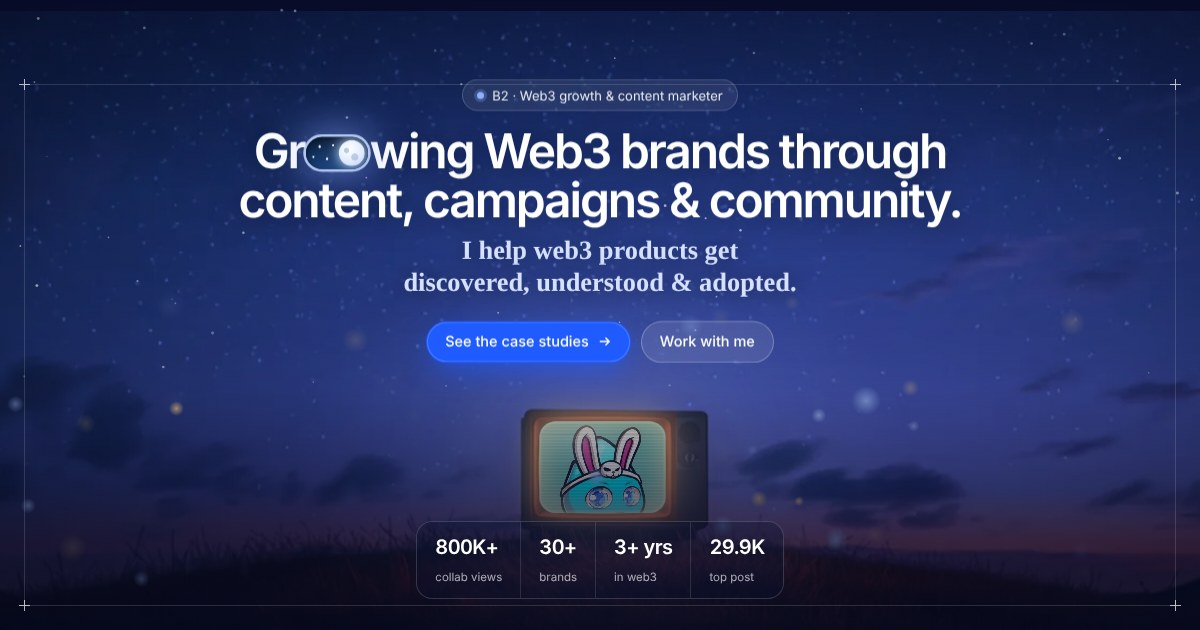
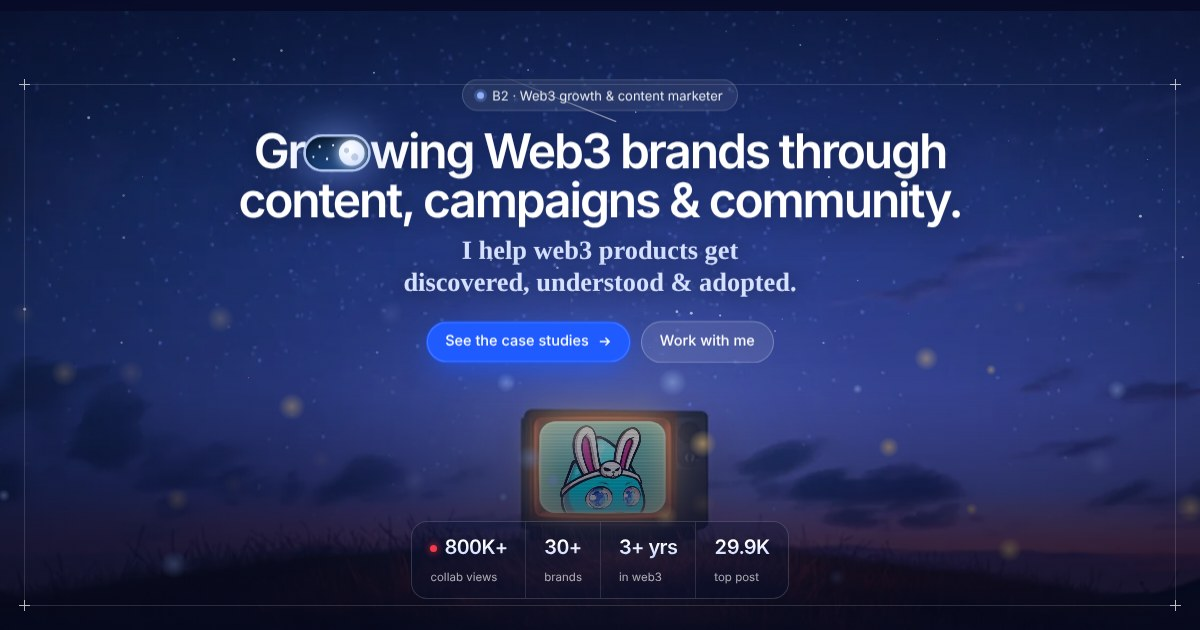
Real post screenshots in viewer, broadcast stat channels on the TV, curved closer, no blank posts

diff --git a/index.html b/index.html
@@ -615,9 +615,58 @@ main.rails{border-left:0;border-right:0;max-width:none;margin:0}
 @media (max-width:820px){.ghead,.grow{grid-template-columns:96px minmax(0,1fr) auto;gap:12px;padding:12px 14px}.ghead{display:none}.gch,.hide-m{display:none}.gt b{font-size:15.5px}.gt small{font-size:12.5px}.go{height:30px;padding:0 10px;font-size:12px}}
 .pc .im .th .fg{object-fit:contain;object-position:50% 50%;width:100%;height:100%}.pc .im .th .bgx{object-fit:cover;width:124%;height:124%}
 .thumbs{display:flex;justify-content:center}.thumbs button{width:calc((100% - 32px)/5);flex:none}
-@media (max-width:900px){.cvis{padding-top:84px}}
+@media (max-width:900px){.cvis{padding-top:94px}}
 @media (max-width:600px){.sv{min-height:0;padding:20px}.sv h4{padding-top:18px;margin-top:0}.cap h4{margin-top:18px}}
 .embed .tw{display:block;position:absolute;left:0;top:0;width:100%;opacity:0;pointer-events:none}.embed.ready .tw{position:relative;opacity:1;pointer-events:auto}
+
+/* modal shows the actual screenshot */
+.embed .fallback{max-height:min(62vh,640px);overflow:auto;background:#000;border:1px solid var(--line);border-radius:14px;overscroll-behavior:contain}
+.embed .fallback img{width:100%;height:auto;display:block}
+.embed .tw{display:none!important}
+/* text-only post cards */
+.th.tx{display:flex;flex-direction:column;justify-content:center;align-items:flex-start;gap:8px;padding:8% 9%;background:radial-gradient(90% 90% at 85% 0%,rgba(74,123,255,.55),transparent 60%),linear-gradient(150deg,#14205e,#070b26)}
+.th.tx::before{display:none}
+.pc-h{display:flex;align-items:center;gap:8px;width:100%;color:#fff}
+.pc-h img{width:30px;height:30px;border-radius:50%;flex:none}
+.pc-h b{display:block;font-size:13px;line-height:1.1}.pc-h small{display:block;font-size:11px;opacity:.6}
+.pc-h svg{width:14px;height:14px;margin-left:auto;opacity:.8}
+.pc-t{color:#fff;font-weight:600;font-size:clamp(15px,1.6vw,20px);line-height:1.2;letter-spacing:-.02em}
+.pc-n{color:rgba(255,255,255,.65);font-size:12.5px;line-height:1.35}
+.pcard{padding:22px;background:linear-gradient(150deg,#14205e,#070b26);display:flex;flex-direction:column;gap:10px}
+.thumbs .th.tx{padding:6px;gap:2px}.thumbs .pc-h,.thumbs .pc-n{display:none}.thumbs .pc-t{font-size:9px}
+.gth.tx .pc-n,.gth.tx .pc-h small{display:none}.gth.tx .pc-t{font-size:11px}
+.pc .im .th.tx .pc-t{font-size:16px}
+
+/* ---- TV stat channels ---- */
+.screen{container-type:size}
+.ch.stat{display:flex;flex-direction:column;align-items:center;justify-content:center;gap:2cqh;background:repeating-conic-gradient(from 0deg at 50% 120%,rgba(255,255,255,.07) 0 6deg,transparent 6deg 12deg),radial-gradient(80% 90% at 50% 40%,#3D74FF,#1238C9 55%,#06123F);color:#fff;overflow:hidden}
+.ch.stat .sn{font:800 40cqh/1 var(--f);letter-spacing:-.06em;background:linear-gradient(180deg,#fff 30%,#BFD0FF);-webkit-background-clip:text;background-clip:text;color:transparent;filter:drop-shadow(0 .6cqh 1.6cqh rgba(0,10,60,.6));margin-top:4cqh}
+.ch.stat small{font:600 8cqh/1 var(--fm);letter-spacing:.14em;color:#D8E3FF}
+.ch.stat .lb{position:absolute;left:5cqw;top:6cqh;display:flex;align-items:center;gap:2cqw;font:700 6.5cqh/1 var(--fm);letter-spacing:.1em;background:#FF3B4E;color:#fff;padding:1.6cqh 2.6cqw;border-radius:1.4cqh}
+.ch.stat .lb i{width:3cqh;height:3cqh;border-radius:50%;background:#fff;animation:rec 1s infinite}
+.ch.stat .sm{position:absolute;left:0;right:0;bottom:0;height:13cqh;background:rgba(3,8,30,.75);display:flex;align-items:center;overflow:hidden;white-space:nowrap}
+.ch.stat .sm span{flex:none;font:600 6.5cqh/1 var(--fm);letter-spacing:.08em;color:#AFC2FF;padding-right:2cqw;animation:sm 6s linear infinite}
+@keyframes sm{to{transform:translateX(-100%)}}
+.hkpi b{background:linear-gradient(180deg,#fff 35%,#AFC2FF);-webkit-background-clip:text;background-clip:text;color:transparent}
+.hkpi div:first-child b::before{content:"";display:inline-block;width:7px;height:7px;border-radius:50%;background:#FF3B4E;box-shadow:0 0 8px #FF3B4E;margin-right:7px;vertical-align:middle;animation:rec 1.6s infinite}
+/* ---- closer: curved horizon that blurs into the page ---- */
+.closer{position:relative;overflow:hidden;isolation:isolate;margin-top:40px;padding:110px 20px 0;text-align:center;background:linear-gradient(180deg,var(--bg) 0%,var(--bg) 44%,color-mix(in srgb,var(--bg) 70%,#5B82FF) 54%,#3557D9 63%,#13216E 72%,#0A1240 80%,#050820 100%)}
+.cl-in{position:relative;z-index:2;max-width:720px;margin:0 auto}
+.cl-in h2{font-size:clamp(34px,5vw,62px);line-height:1.02;letter-spacing:-.045em;margin:18px 0 14px}
+.cl-in p{color:var(--mute);font-size:17px;max-width:46ch;margin:0 auto}
+.cl-in .btns{display:flex;gap:10px;justify-content:center;flex-wrap:wrap;margin-top:26px}
+.horizon{position:relative;height:clamp(220px,28vw,360px);margin:30px -20px 0;pointer-events:none}
+.horizon .glow1{position:absolute;left:50%;top:38%;width:140%;height:260%;transform:translateX(-50%);border-radius:50%;background:radial-gradient(50% 50% at 50% 50%,transparent 62%,rgba(90,140,255,.55) 66%,rgba(31,91,255,.18) 72%,transparent 80%);filter:blur(22px)}
+.horizon .ring{position:absolute;left:50%;top:44%;width:130%;height:250%;transform:translateX(-50%);border-radius:50%;box-shadow:0 -24px 70px -12px rgba(110,160,255,.65),inset 0 40px 90px -30px rgba(90,140,255,.55);background:radial-gradient(60% 40% at 50% 0%,rgba(40,70,200,.45),transparent 70%),#060A26;filter:blur(7px);-webkit-mask:linear-gradient(90deg,transparent,#000 22%,#000 78%,transparent);mask:linear-gradient(90deg,transparent,#000 22%,#000 78%,transparent)}
+.ccards{position:relative;z-index:2;display:grid;grid-template-columns:repeat(3,minmax(0,1fr));gap:12px;max-width:900px;margin:-110px auto 0}
+.cc{display:flex;flex-direction:column;align-items:flex-start;gap:6px;padding:18px 20px;border-radius:16px;border:1px solid rgba(255,255,255,.14);background:rgba(255,255,255,.05);backdrop-filter:blur(14px);-webkit-backdrop-filter:blur(14px);color:#fff;text-decoration:none;text-align:left;font:inherit;cursor:pointer;box-shadow:0 20px 40px -20px rgba(0,0,0,.6),inset 0 1px 0 rgba(255,255,255,.08);transition:transform .3s,border-color .3s,background .3s;position:relative}
+.cc:hover{transform:translateY(-3px);border-color:rgba(143,176,255,.6);background:rgba(255,255,255,.09)}
+.cc span{font:500 10.5px var(--fm);letter-spacing:.12em;text-transform:uppercase;color:rgba(255,255,255,.55)}
+.cc b{font-weight:500;font-size:15.5px;word-break:break-all}
+.cc em{position:absolute;right:14px;top:16px;font:500 10px var(--fm);font-style:normal;color:#8FB0FF;letter-spacing:.06em}
+.cfoot{position:relative;z-index:2;display:flex;justify-content:space-between;gap:12px;flex-wrap:wrap;max-width:1160px;margin:0 auto;padding:56px 0 calc(28px + env(safe-area-inset-bottom,0px));color:rgba(255,255,255,.5);font-size:13px}
+.cfoot a{color:rgba(255,255,255,.75);text-decoration:none}
+@media (max-width:700px){.ccards{grid-template-columns:1fr;margin-top:-80px;max-width:420px}.horizon{height:200px}.cfoot{justify-content:center;text-align:center;padding-top:40px}.closer{padding-top:80px}}
 </style>
 </head>
 <body>
@@ -634,10 +683,10 @@ main.rails{border-left:0;border-right:0;max-width:none;margin:0}
     <div class="screen" id="screen">
       <div class="ch on" data-t="5600"><canvas id="pfpc" role="img" aria-label="B2"></canvas></div>
       <div class="ch logo" data-t="1300"><img src="a/l-immutable.webp" alt=""></div>
-      <div class="ch txt" data-t="1300"><span>800K+<small>COLLAB VIEWS</small></span></div>
+      <div class="ch stat" data-t="1900"><span class="lb"><i></i>LIVE</span><b class="sn" data-n="800" data-s="K+">800K+</b><small>COLLAB VIEWS</small><span class="sm"><span>IMMUTABLE · PLAYEMBER · FOGO · PEAQ · IRYS · TOKYO BEAST · XOCIETY · </span><span>IMMUTABLE · PLAYEMBER · FOGO · PEAQ · IRYS · TOKYO BEAST · XOCIETY · </span></span></div>
       <div class="ch logo w" data-t="1300"><img src="a/l-playember.webp" alt=""></div>
       <div class="ch logo" data-t="1300"><img src="a/l-bmr.webp" alt=""></div>
-      <div class="ch txt" data-t="1300"><span>30+<small>BRANDS</small></span></div>
+      <div class="ch stat" data-t="1900"><span class="lb"><i></i>LIVE</span><b class="sn" data-n="30" data-s="+">30+</b><small>BRANDS GROWN</small><span class="sm"><span>GAMING · L1s · DePIN · DATA · CONSUMER CRYPTO · TRADING · INFOFI · </span><span>GAMING · L1s · DePIN · DATA · CONSUMER CRYPTO · TRADING · INFOFI · </span></span></div>
       <div class="ch logo" data-t="1300"><img src="a/l-xociety.webp" alt=""></div>
       <div class="nz"></div>
     </div>
@@ -681,7 +730,7 @@ main.rails{border-left:0;border-right:0;max-width:none;margin:0}
 </section>
 
 <section class="sec" id="bring">
-  <div class="head rv"><span class="chl"><i></i>CH 02<b>What I bring a team</b></span><h2>Five things <span class="blue">you get from day one.</span></h2><p>A founder or marketing lead isn't hiring posts. They're hiring someone who can move people from "what is this?" to "I'm in."</p></div>
+  <div class="head rv"><span class="chl"><i></i>CH 02<b>What I bring to a team</b></span><h2>Five things <span class="blue">you get from day one.</span></h2><p>A founder or marketing lead isn't hiring posts. They're hiring someone who can move people from "what is this?" to "I'm in."</p></div>
   <div class="caps">
     <div class="cap bl rv"><span class="n">01</span><h4>I explain products so people get them</h4><p>Complex launches, tokens and mechanics, broken down until a newcomer can follow and take the next step.</p><span class="ev">Immutable 5M thread · 7.2K views</span></div>
     <div class="cap rv"><span class="n">02</span><h4>I make people curious enough to try</h4><p>Hooks, early-access pushes and how-to guides that turn a scroll into a first click.</p><span class="ev">Fogo how-to-play guide</span></div>
@@ -805,12 +854,23 @@ main.rails{border-left:0;border-right:0;max-width:none;margin:0}
   </div>
 </section>
 
-<section class="sec" id="contact">
-  <div class="band rv"><h3>Got a product that needs users?</h3><p>Tell me what you're launching and who it's for. I'll tell you how I'd get them in.</p><div class="btns"><a class="btn btn-w" href="https://x.com/b2nuel" target="_blank" rel="noopener">DM me on X</a><a class="btn btn-o" href="mailto:calminuel@gmail.com">calminuel@gmail.com</a><button class="btn btn-o" id="dc" type="button">Discord: b23613</button></div><div class="copied" id="copied"></div></div>
-</section>
 </main>
 
-<footer><div class="in"><span>© 2026 B2 · @b2nuel</span><span><a href="https://x.com/b2nuel" target="_blank" rel="noopener">X</a><a href="mailto:calminuel@gmail.com">Email</a><a href="#top">Back to top</a></span></div></footer>
+<section class="closer" id="contact">
+  <div class="cl-in rv">
+    <span class="chl"><i></i>CH 10<b>Work with me</b></span>
+    <h2>Got a product that <span class="blue">needs users?</span></h2>
+    <p>Tell me what you're launching and who it's for. I'll tell you exactly how I'd get them in.</p>
+    <div class="btns"><a class="btn btn-b" href="https://x.com/b2nuel" target="_blank" rel="noopener">DM me on X <svg viewBox="0 0 16 16" fill="none" stroke="currentColor" stroke-width="1.6"><path d="M3 8h10M9 4l4 4-4 4"/></svg></a><a class="btn btn-g" href="mailto:calminuel@gmail.com">Send an email</a></div>
+  </div>
+  <div class="horizon" aria-hidden="true"><i class="glow1"></i><i class="ring"></i></div>
+  <div class="ccards">
+    <a class="cc" href="https://x.com/b2nuel" target="_blank" rel="noopener"><span>X</span><b>@b2nuel</b></a>
+    <button class="cc" id="dc" type="button"><span>Discord</span><b>b23613</b><em id="copied">Tap to copy</em></button>
+    <a class="cc" href="mailto:calminuel@gmail.com"><span>Email</span><b>calminuel@gmail.com</b></a>
+  </div>
+  <div class="cfoot"><span>© 2026 B2</span><span>Content · Campaigns · Community</span><a href="#top">Back to top ↑</a></div>
+</section>
 
 <div class="scrim" id="scrim"></div>
 <aside class="drawer" id="drawer" aria-hidden="true" aria-label="Role posts"><div class="dhead" id="dHead"></div><div class="dlist" id="dList"></div></aside>
@@ -835,14 +895,14 @@ const ROLES=[
   pts:["Ecosystem explainers and data threads, like the 5M users breakdown","Spotlights for games launching on Immutable: Engines of Fury, Project O, OverKnights, RavenIdle","Pitching builders on why to launch on Immutable","Hero program renewed after more than a year"],
   tags:["Ambassador","Threads","Game spotlights"],
   posts:[
-   {img:"a/p-hero.webp",id:"1985687037886763412",t:"Hero program, renewed",n:"Immutable renewed my Hero program after a year in it."},
-   {img:"a/p-5m.webp",id:"1911369716892921894",t:"Immutable hits 5M users",n:"Overview thread on Immutable Passport passing 5M users.",v:"7.2K"},
-   {img:"a/p-lead.webp",id:"1963199137077133452",t:"Is Immutable quietly taking the lead?",n:"Where Immutable stands in web3 gaming, and why.",v:"4.9K"},
-   {img:"a/p-eof.webp",id:"1981723385420816565",t:"Engines of Fury",n:"Spotlight on an Immutable-backed game."},
-   {txt:1,id:"1952390925155701014",t:"If you're launching a game, pivot to Immutable",n:"A builder-facing pitch for launching on Immutable."},
-   {img:"a/p-projecto.webp",id:"1958560451710644668",t:"Project O launches on Immutable",n:"Launch coverage for Project O.",v:"1.9K"},
-   {img:"a/p-overknights.webp",id:"1948431944934474085",t:"OverKnights on IMX",n:"Game spotlight for OverKnights."},
-   {img:"a/p-ravenidle.webp",id:"1941107040249598361",t:"RavenIdle creator leaderboard",n:"Immutable Play creator leaderboard push."}
+   {img:"a/p-hero.webp",id:"1985687037886763412",shot:"a/s-hero.webp",t:"Hero program, renewed",n:"Immutable renewed my Hero program after a year in it."},
+   {img:"a/p-5m.webp",id:"1911369716892921894",shot:"a/s-5m.webp",t:"Immutable hits 5M users",n:"Overview thread on Immutable Passport passing 5M users.",v:"7.2K"},
+   {img:"a/p-lead.webp",id:"1963199137077133452",shot:"a/s-lead.webp",t:"Is Immutable quietly taking the lead?",n:"Where Immutable stands in web3 gaming, and why.",v:"4.9K"},
+   {img:"a/p-eof.webp",id:"1981723385420816565",shot:"a/s-eof.webp",t:"Engines of Fury",n:"Spotlight on an Immutable-backed game."},
+   {img:"a/s-pivot.webp",id:"1952390925155701014",shot:"a/s-pivot.webp",t:"If you're launching a game, pivot to Immutable",n:"A builder-facing pitch for launching on Immutable."},
+   {img:"a/p-projecto.webp",id:"1958560451710644668",shot:"a/s-projecto.webp",t:"Project O launches on Immutable",n:"Launch coverage for Project O.",v:"1.9K"},
+   {img:"a/p-overknights.webp",id:"1948431944934474085",shot:"a/s-overknights.webp",t:"OverKnights on IMX",n:"Game spotlight for OverKnights."},
+   {img:"a/p-ravenidle.webp",id:"1941107040249598361",shot:"a/s-ravenidle.webp",t:"RavenIdle creator leaderboard",n:"Immutable Play creator leaderboard push."}
   ]},
  {k:"pe",name:"PlayEmber",role:"Content Creator, Moderator & SMM",when:"2023 to now",sector:"Consumer crypto",img:"a/p-playember.webp",logo:"a/l-playember.webp",c:"#0B1B4D",
   head:"The voice behind a 1M+ user brand.",
@@ -858,7 +918,7 @@ const ROLES=[
   posts:[
    {img:"a/x-fogohow.webp",id:"2008179740256117067",t:"How to play: earn $FISH",n:"Step-by-step guide to the fishing game, with the FOGO airdrop angle."},
    {txt:1,id:"2008179821168525712",t:"8 days to the FOGO TGE",n:"Countdown post, in partnership with Kronicles."},
-   {txt:1,id:"2008179805322158326",t:"The first game on Fogo",n:"Launch post introducing the game."}
+   {img:"a/x-fogoblock.webp",id:"2008179805322158326",t:"The first game on Fogo",n:"Why the first game on Fogo is worth trying: quick to start, your entry ticket to the chain, and the fastest blocks around."}
   ]},
  {k:"peaq",name:"peaq",role:"Campaign Creator",when:"2025",sector:"DePIN",img:"a/x-peaq.webp",ini:"pq",c:"#2546D6",
   head:"Getting people into DePIN's Get Real season.",
@@ -872,9 +932,9 @@ const ROLES=[
   pts:["Detailed Irys thread for the Kaito leaderboard","Questland tasks completed and shared","Follow-ups pushing for the top Kaito spots"],
   tags:["InfoFi","Kaito","Quests"],
   posts:[
-   {img:"a/p-irys.webp",id:"1946481531804955016",t:"Irys on Kaito, the full thread",n:"A detailed breakdown of Irys.",v:"1.3K"},
-   {img:"a/p-questland.webp",id:"1970115359962186228",t:"Irys Questland",n:"Questland tasks completed, with how to join."},
-   {txt:1,id:"1946646030268723233",t:"Top 1 on Kaito is inevitable",n:"Follow-up on the leaderboard push."}
+   {img:"a/p-irys.webp",id:"1946481531804955016",shot:"a/s-irys.webp",t:"Irys on Kaito, the full thread",n:"A detailed breakdown of Irys.",v:"1.3K"},
+   {img:"a/p-questland.webp",id:"1970115359962186228",shot:"a/s-questland.webp",t:"Irys Questland",n:"Questland tasks completed, with how to join."},
+   {img:"a/s-kaito.webp",id:"1946646030268723233",shot:"a/s-kaito.webp",t:"Top 1 on Kaito is inevitable",n:"Follow-up on the leaderboard push."}
   ]},
  {k:"tb",name:"Tokyo Beast",role:"Launch Content Partner",when:"Jun 2025",sector:"Gaming",img:"a/x-tokyo.webp",ini:"TB",c:"#4F46E5",
   head:"A full launch, covered end to end.",
@@ -884,28 +944,28 @@ const ROLES=[
   posts:[
    {img:"a/x-tokyo.webp",id:"1929822556057481366",t:"Special early access",n:"Early access announcement for Tokyo Beast."},
    {img:"a/p-tokyo.webp",id:"1932731382599430455",t:"TOKYOBEAST IS INEVITABLE",n:"The hype post ahead of launch."},
-   {txt:1,id:"1935373596148576583",t:"The launch thread",n:"Kick streamers, Lucky Tickets, how to participate and the game going live."}
+   {img:"a/s-tokyo-thread.webp",id:"1935373596148576583",shot:"a/s-tokyo-thread.webp",t:"The launch thread",n:"Kick streamers, Lucky Tickets, how to participate and the game going live."}
   ]},
  {k:"bmr",name:"Bad Mad Robots & Xociety",role:"Ambassador & Intern",when:"2025 to now",sector:"Gaming",img:"a/p-bmr.webp",logo:"a/l-bmr.webp",c:"#0EA5E9",
   head:"Onboarding gamers into two big communities.",
   sub:"Ambassador and intern for two game communities with 150K+ and 260K+ followers.",
   pts:["Onboarding gamers into both games","Replies and posting for the communities","Ongoing since 2025"],
   tags:["Ambassador","Onboarding"],
-  posts:[{img:"a/p-bmr.webp",id:"1912461992465441196",t:"Bad Mad Robots",n:"Introducing Bad Mad Robots.",v:"5.4K"}]},
+  posts:[{img:"a/p-bmr.webp",id:"1912461992465441196",shot:"a/s-bmr.webp",t:"Bad Mad Robots",n:"Introducing Bad Mad Robots.",v:"5.4K"}]},
  {k:"tx",name:"TxFlow",role:"Points Campaign",when:"2026",sector:"Trading",img:"a/p-txflow.webp",ini:"Tx",c:"#3B82F6",
   head:"Trading content that shows the work.",
   sub:"Personal trading and points posts for TxFlow's Season 1, showing the product in use.",
   pts:["Points Season 1 posts","Real usage, shown in public"],
   tags:["Trading","Points"],
-  posts:[{img:"a/p-txflow.webp",id:"2109617650896609661",t:"TxFlow Points, Season 1",n:"Points progress on TxFlow."}]},
+  posts:[{img:"a/p-txflow.webp",id:"2109617650896609661",shot:"a/s-txflow.webp",t:"TxFlow Points, Season 1",n:"Points progress on TxFlow."}]},
  {k:"spot",name:"Spotlights",role:"Independent Coverage",when:"2024 to 2025",sector:"Gaming",img:"a/p-lolland.webp",ini:"★",c:"#1F5BFF",
   head:"Where my biggest numbers came from.",
   sub:"Coverage I chose to write, including my most viewed post.",
   pts:["LOL Land: 29.9K views","Hunters On-Chain: 11.4K views"],
   tags:["Top posts"],
   posts:[
-   {img:"a/p-lolland.webp",id:"1960291926977974472",t:"LOL Land",n:"My most viewed post.",v:"29.9K"},
-   {img:"a/p-hunters.webp",id:"1851942979788788197",t:"Hunters On-Chain",n:"Coverage of the game.",v:"11.4K"}
+   {img:"a/p-lolland.webp",id:"1960291926977974472",shot:"a/s-lolland.webp",t:"LOL Land",n:"My most viewed post.",v:"29.9K"},
+   {img:"a/p-hunters.webp",id:"1851942979788788197",shot:"a/s-hunters.webp",t:"Hunters On-Chain",n:"Coverage of the game.",v:"11.4K"}
   ]}
 ];
 const TOPS=[["spot",0,"LOL Land",29.9],["spot",1,"Hunters On-Chain",11.4],["imx",1,"Immutable 5M users",7.2],["bmr",0,"Bad Mad Robots",5.4],["imx",2,"Immutable taking the lead?",4.9],["imx",5,"Project O",1.9],["irys",0,"Irys on Kaito",1.3]];
@@ -928,7 +988,8 @@ const secs=['top','impact','cases','work','playbook','said'];
 addEventListener('scroll',()=>{let cur='top';secs.forEach(id=>{const e=document.getElementById(id);if(e&&e.getBoundingClientRect().top<innerHeight*.4)cur=id});$$('#navl a').forEach(a=>a.classList.toggle('on',a.getAttribute('href')==='#'+cur))},{passive:true});
 
 /* thumbnails: blurred fill + contained image, so posts never crop */
-const thumb=(p,cls='')=>p.img?`<span class="th ${cls}"><img class="bgx" src="${p.img}" alt="" loading="lazy"><img class="fg" src="${p.img}" alt="${esc(p.t)}" loading="lazy"></span>`:`<span class="th tx ${cls}"><span>${esc(p.t)}</span></span>`;
+const pcard=p=>`<span class="pc-h"><img src="a/pfp.webp" alt=""><span><b>B2</b><small>@b2nuel</small></span><svg viewBox="0 0 24 24" fill="currentColor"><path d="M18.2 2.3h3.4l-7.4 8.4 8.7 11.5h-6.8l-5.3-7-6.1 7H1.3l7.9-9L.9 2.3h7l4.8 6.3zm-1.2 17.9h1.9L7.1 4.2H5.1z"/></svg></span><span class="pc-t">${esc(p.t)}</span><span class="pc-n">${esc(p.n)}</span>`;
+const thumb=(p,cls='')=>p.img?`<span class="th ${cls}"><img class="bgx" src="${p.img}" alt="" loading="lazy"><img class="fg" src="${p.img}" alt="${esc(p.t)}" loading="lazy"></span>`:`<span class="th tx ${cls}">${pcard(p)}</span>`;
 /* channel guide (more work) */
 const MORE=ROLES.map((r,i)=>[r,i]).filter(([r])=>!['imx','pe','fogo'].includes(r.k));
 MORE.forEach(([r,ri0],i)=>{const b=document.createElement('button');b.className='grow';b.dataset.role=r.k;
@@ -962,17 +1023,15 @@ function loadTw(){if(twReady)return twReady;twReady=new Promise(res=>{const s=do
 function openPost(si,k){mS=si;mK=k;const r=ROLES[si],p=r.posts[k];
   $('#mMeta').textContent=`${r.name} · ${k+1} of ${r.posts.length}${p.v?` · ${p.v} views`:''}`;$('#mTitle').textContent=p.t;$('#mLesson').textContent=p.n;
   $('#mX').href=X(p.id);$('#mPrev').disabled=k===0;$('#mNext').disabled=k===r.posts.length-1;
-  $('#mFall').innerHTML=p.img?`<img src="${p.img}" alt="">`:`<div style="padding:28px 22px;font-size:20px;font-weight:600;letter-spacing:-.02em;color:#0B0D12">${esc(p.t)}</div>`;
-  const em=$('#mEmbed'),tw=$('#mTw');em.classList.remove('ready');tw.innerHTML='';const my=++tok;
-  scrim.classList.add('on');modal.classList.add('on');modal.setAttribute('aria-hidden','false');lock(true);
-  loadTw().then(ok=>{if(!ok||my!==tok)return;twttr.widgets.createTweet(p.id,tw,{theme:root.dataset.theme==='dark'?'dark':'light',dnt:true,align:'center',conversation:'none'}).then(el=>{if(el&&my===tok)em.classList.add('ready')})})}
+  $('#mFall').innerHTML=(p.shot||p.img)?`<img src="${p.shot||p.img}" alt="${esc(p.t)}">`:`<div class="pcard">${pcard(p)}</div>`;$('#mFall').scrollTop=0;
+  scrim.classList.add('on');modal.classList.add('on');modal.setAttribute('aria-hidden','false');lock(true)}
 function closePost(){modal.classList.remove('on');modal.setAttribute('aria-hidden','true');tok++;if(!drawer.classList.contains('on')){scrim.classList.remove('on');lock(false)}}
 document.addEventListener('click',e=>{const rr=e.target.closest('[data-role]');if(rr){openDrawer(ri(rr.dataset.role));return}const p=e.target.closest('[data-post]');if(!p)return;const [k,i]=p.dataset.post.split(':');openPost(ri(k),+i)});
 $('#mClose').onclick=closePost;$('#mPrev').onclick=()=>openPost(mS,mK-1);$('#mNext').onclick=()=>openPost(mS,mK+1);
 scrim.onclick=()=>{if(modal.classList.contains('on'))closePost();else closeDrawer()};
 modal.addEventListener('click',e=>{if(e.target===modal)closePost()});
 addEventListener('keydown',e=>{if(e.key!=='Escape')return;if(modal.classList.contains('on'))closePost();else if(drawer.classList.contains('on'))closeDrawer()});
-$('#dc').onclick=()=>{const done=()=>$('#copied').textContent='Discord username copied';navigator.clipboard?navigator.clipboard.writeText('b23613').then(done,()=>$('#copied').textContent='Discord: b23613'):($('#copied').textContent='Discord: b23613')};
+$('#dc').onclick=()=>{const done=()=>$('#copied').textContent='Copied ✓';navigator.clipboard?navigator.clipboard.writeText('b23613').then(done,()=>$('#copied').textContent='Discord: b23613'):($('#copied').textContent='Discord: b23613')};
 
 /* living pfp: eyes look around + blink */
 function livePfp(cv){const S=2,ctx=cv.getContext('2d');cv.width=cv.height=758;
@@ -1018,7 +1077,7 @@ const scr=$('#screen'),chs=$$('#screen .ch');let ci=0;
 setTimeout(()=>{scr.classList.add('boot');setTimeout(()=>scr.classList.remove('boot'),1300);if(!RM)setTimeout(next,+chs[0].dataset.t)},500);
 function next(){const order=[0,1,0,2,0,3,0,4,0,5,0,6];ci=(ci+1)%order.length;const k=order[ci];
   scr.classList.remove('flick');void scr.offsetWidth;scr.classList.add('flick');
-  setTimeout(()=>chs.forEach((c,j)=>c.classList.toggle('on',j===k)),110);
+  setTimeout(()=>{chs.forEach((c,j)=>c.classList.toggle('on',j===k));const sn=chs[k].querySelector('.sn');if(sn){const to=+sn.dataset.n,s=sn.dataset.s,t0=performance.now();(function f(t){const q=Math.min(1,(t-t0)/900);sn.textContent=Math.round(to*(1-Math.pow(1-q,3)))+s;if(q<1)requestAnimationFrame(f)})(t0)}},110);
   setTimeout(next,k===0?5600:+chs[k].dataset.t)}
 /* sky: twinkle, fireflies, shooting stars */
 const cv=$('#sky'),cx=cv.getContext('2d');let stars=[],flies=[],shoot=null,DPR=Math.min(2,devicePixelRatio||1);
